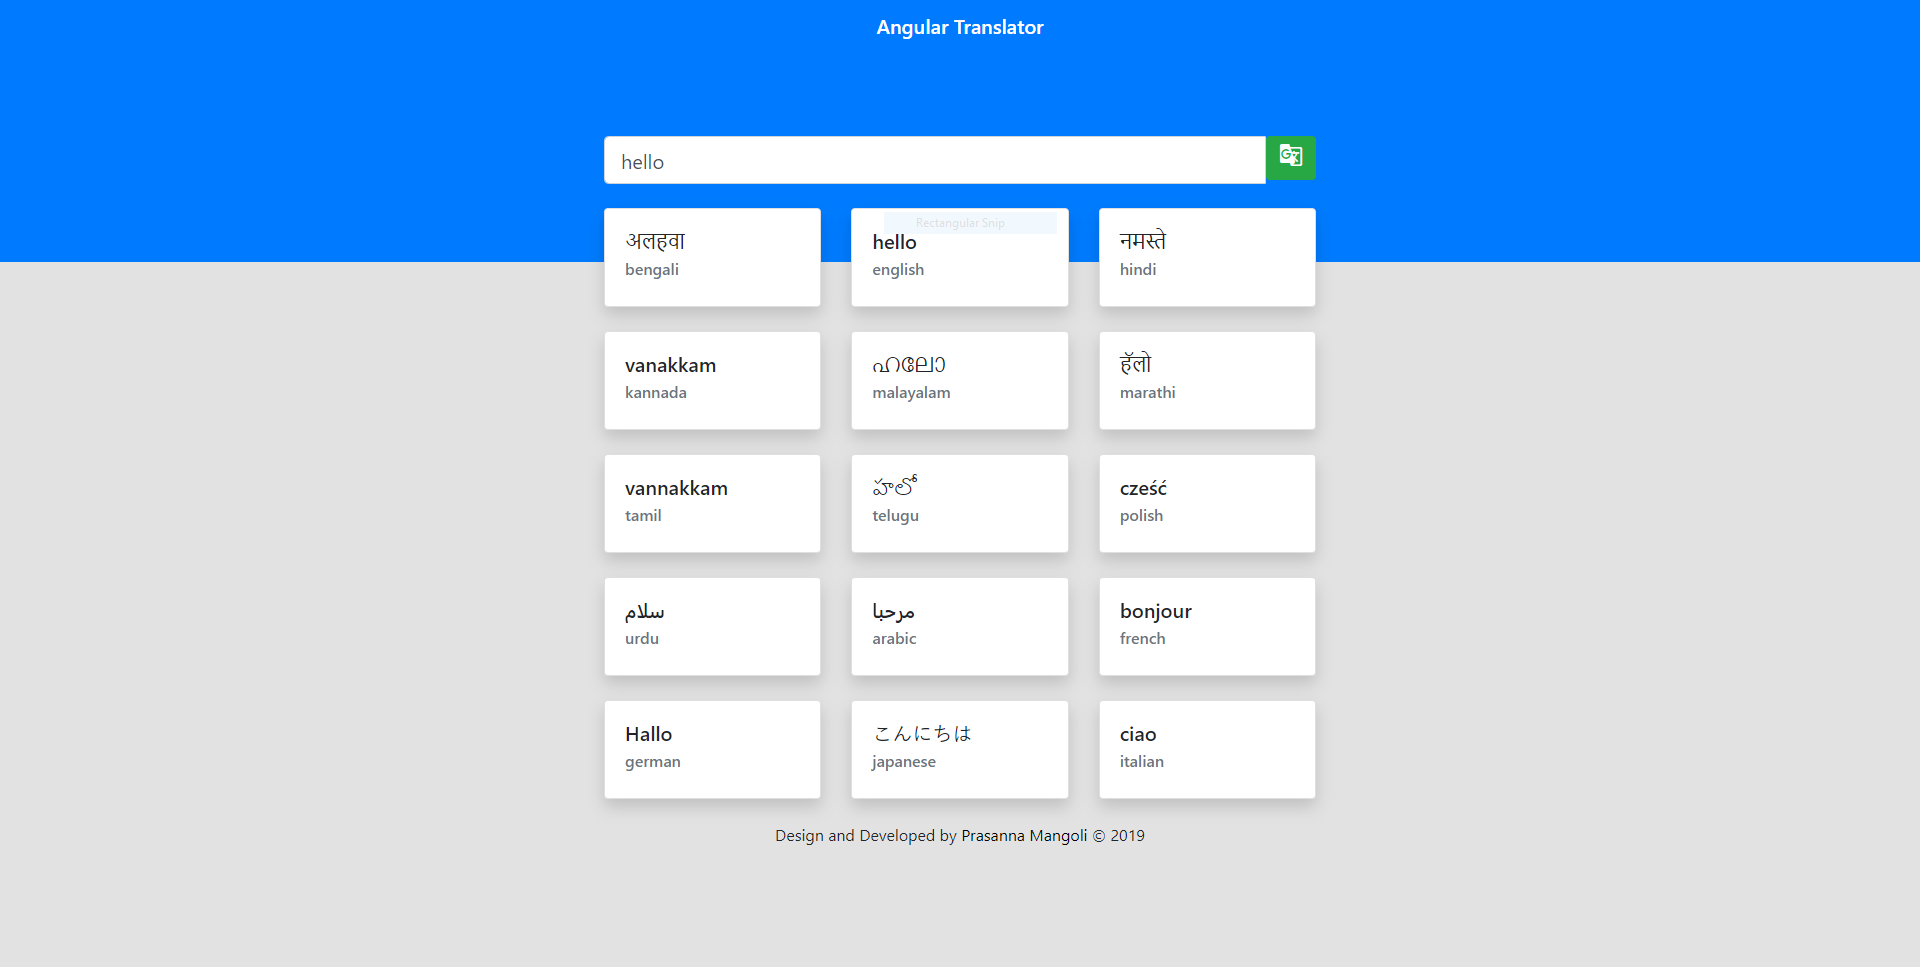
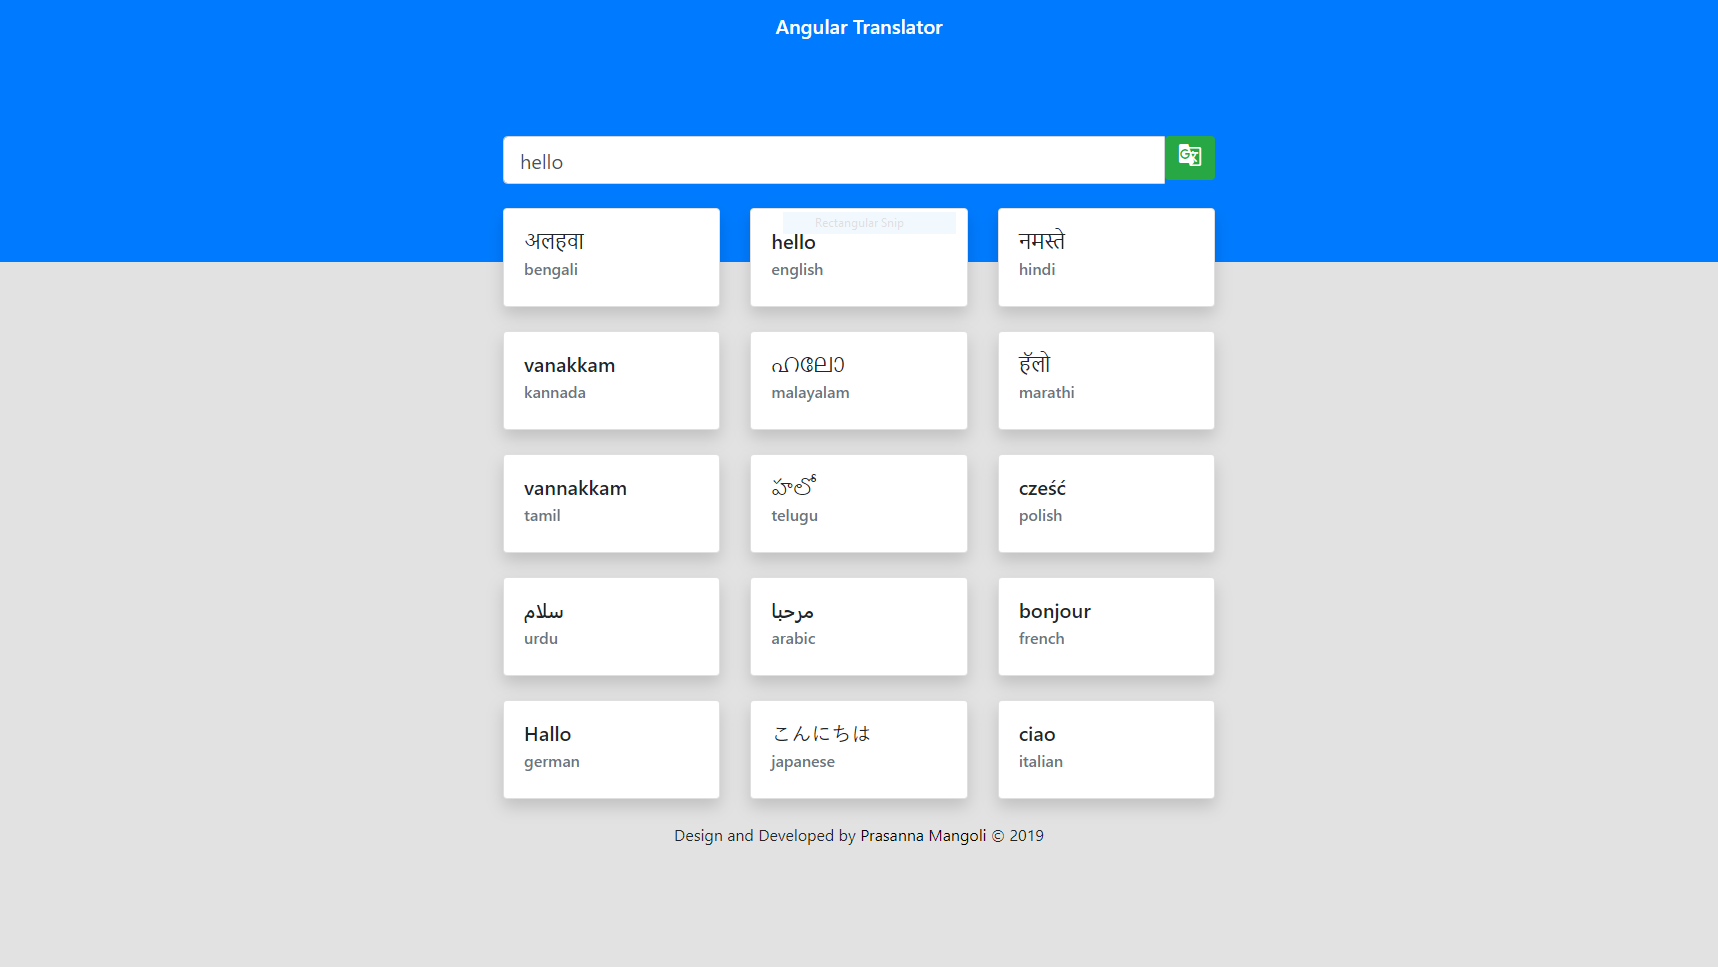
Image Path Update

diff --git a/README.md b/README.md
@@ -1,6 +1,6 @@
 # TranslatorApp
 
-![alt text](https://github.com/mangoliprasanna/angular-translator/screen.PNG)
+![Screenshot](https://github.com/mangoliprasanna/angular-translator/blob/master/screen.png)
 
 This is simple angular project for word translation using python in backend.
 
